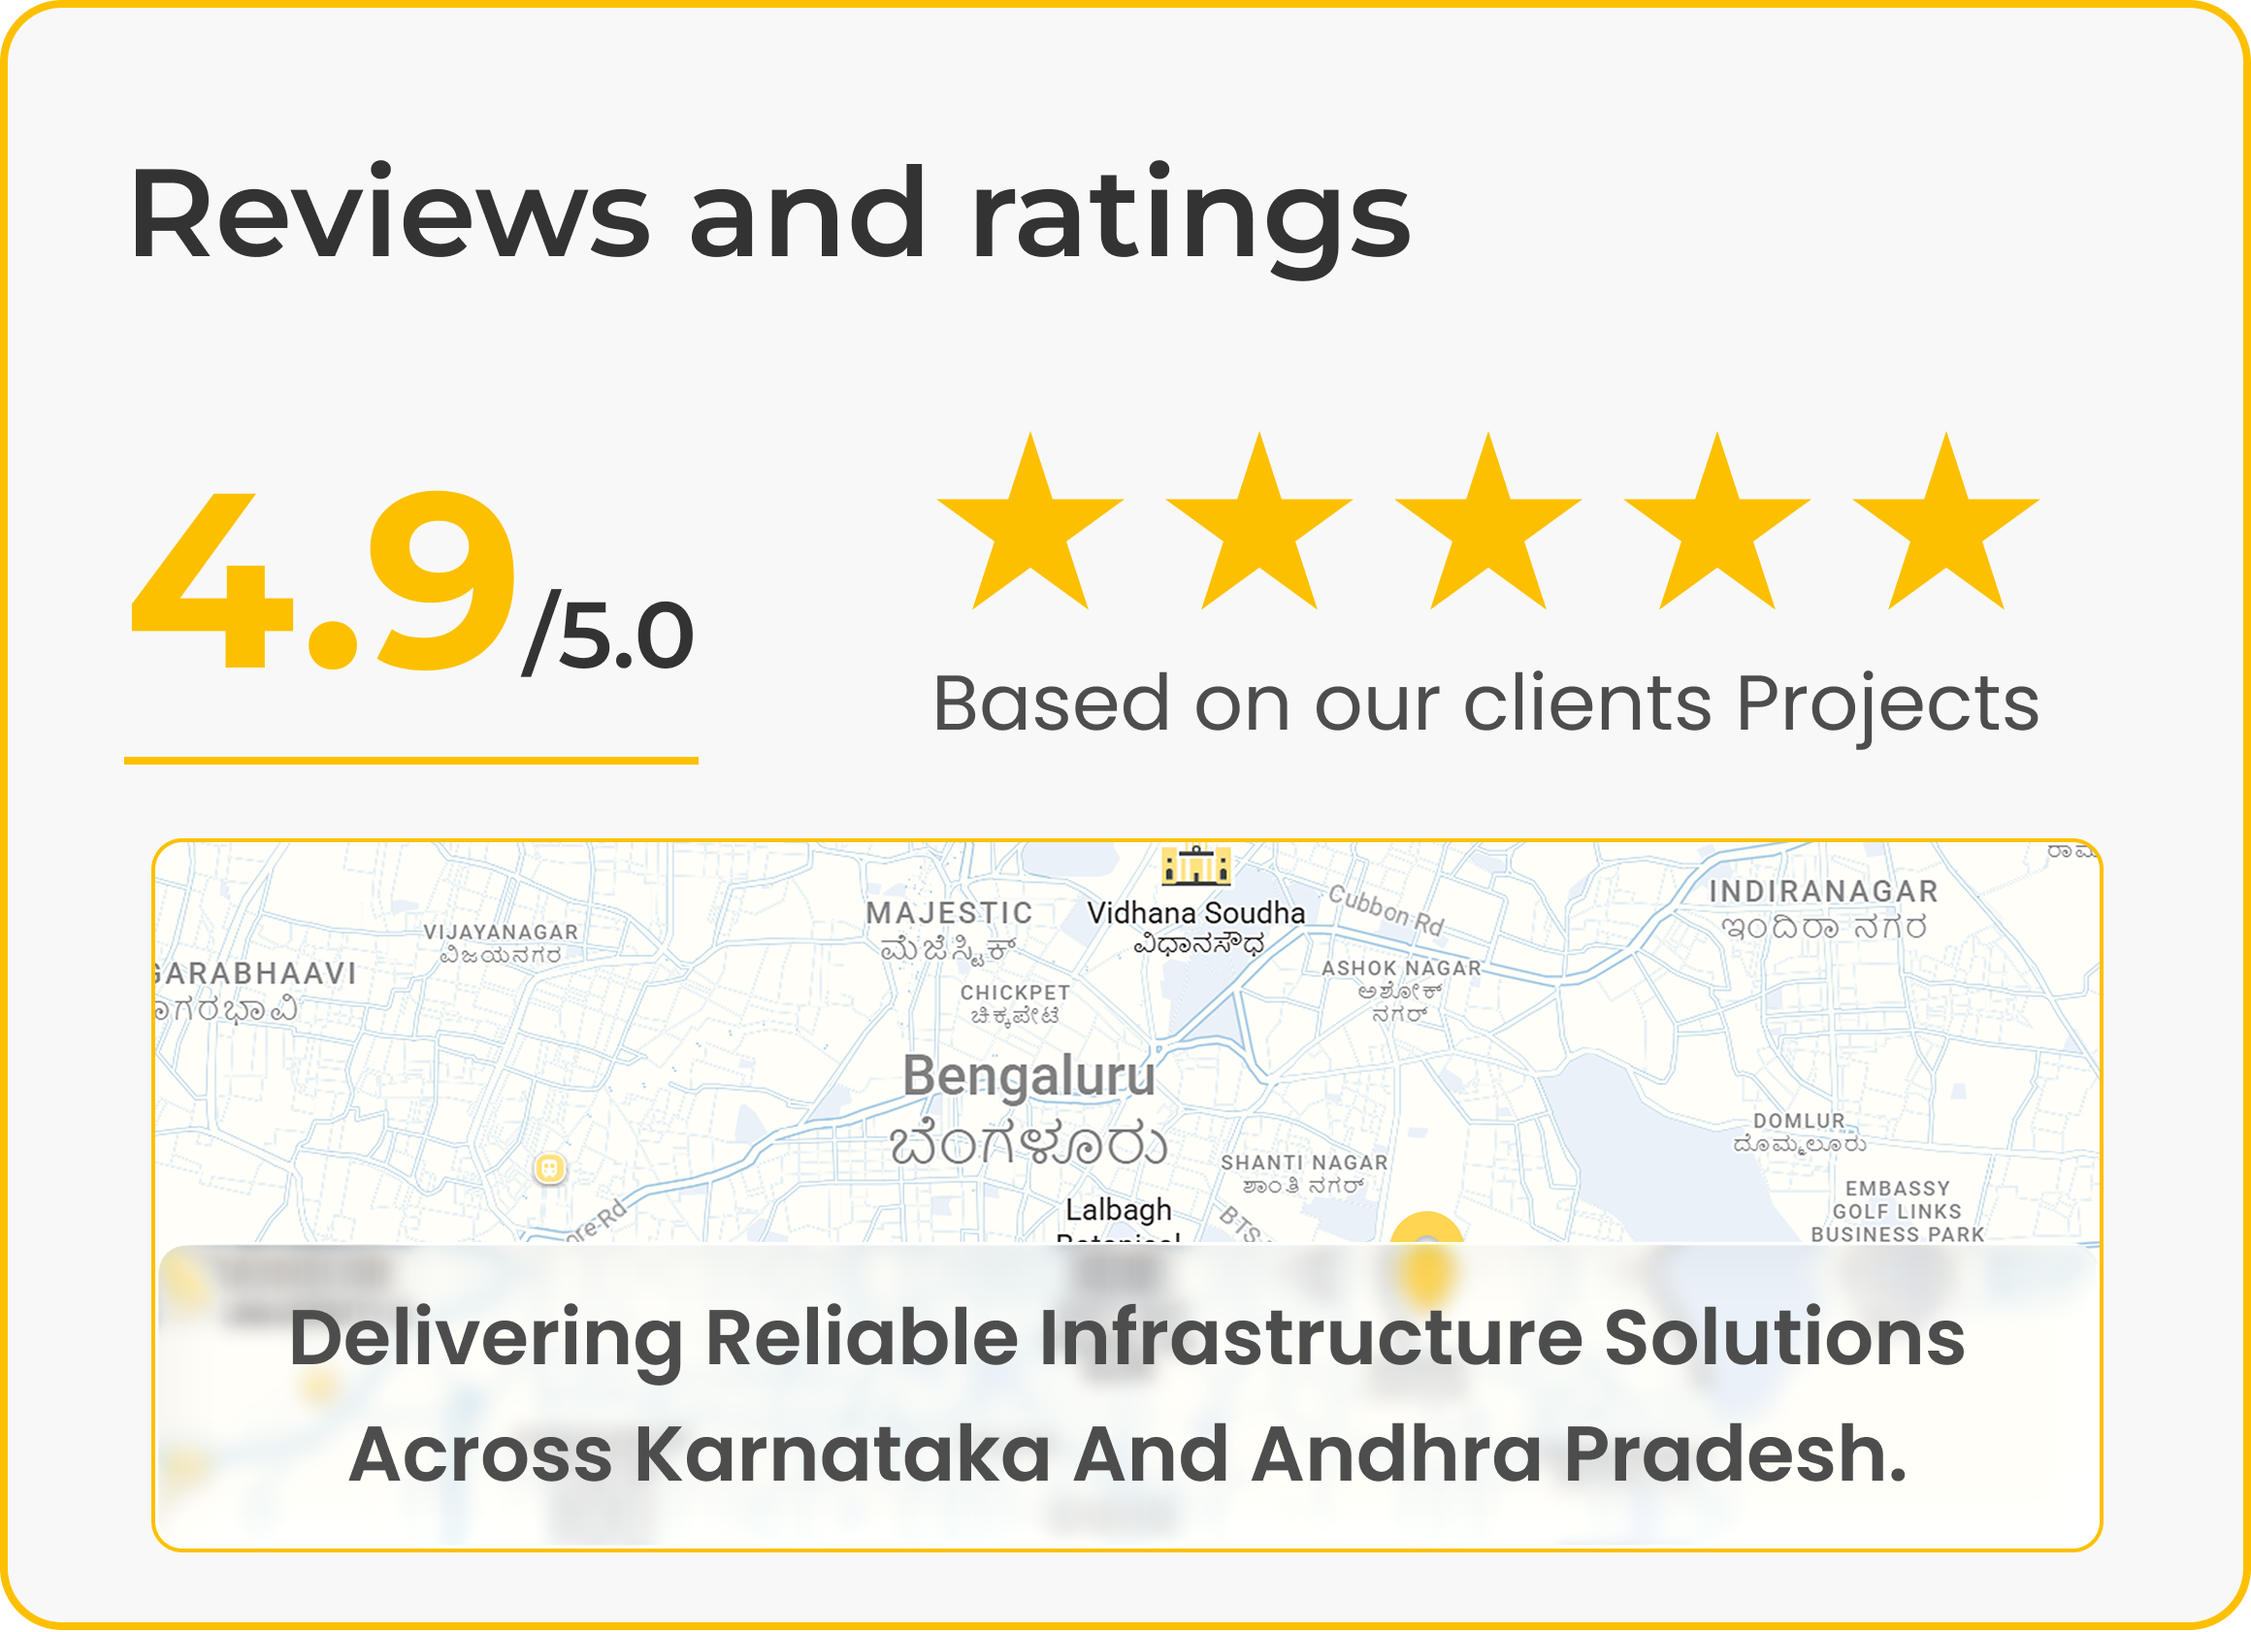
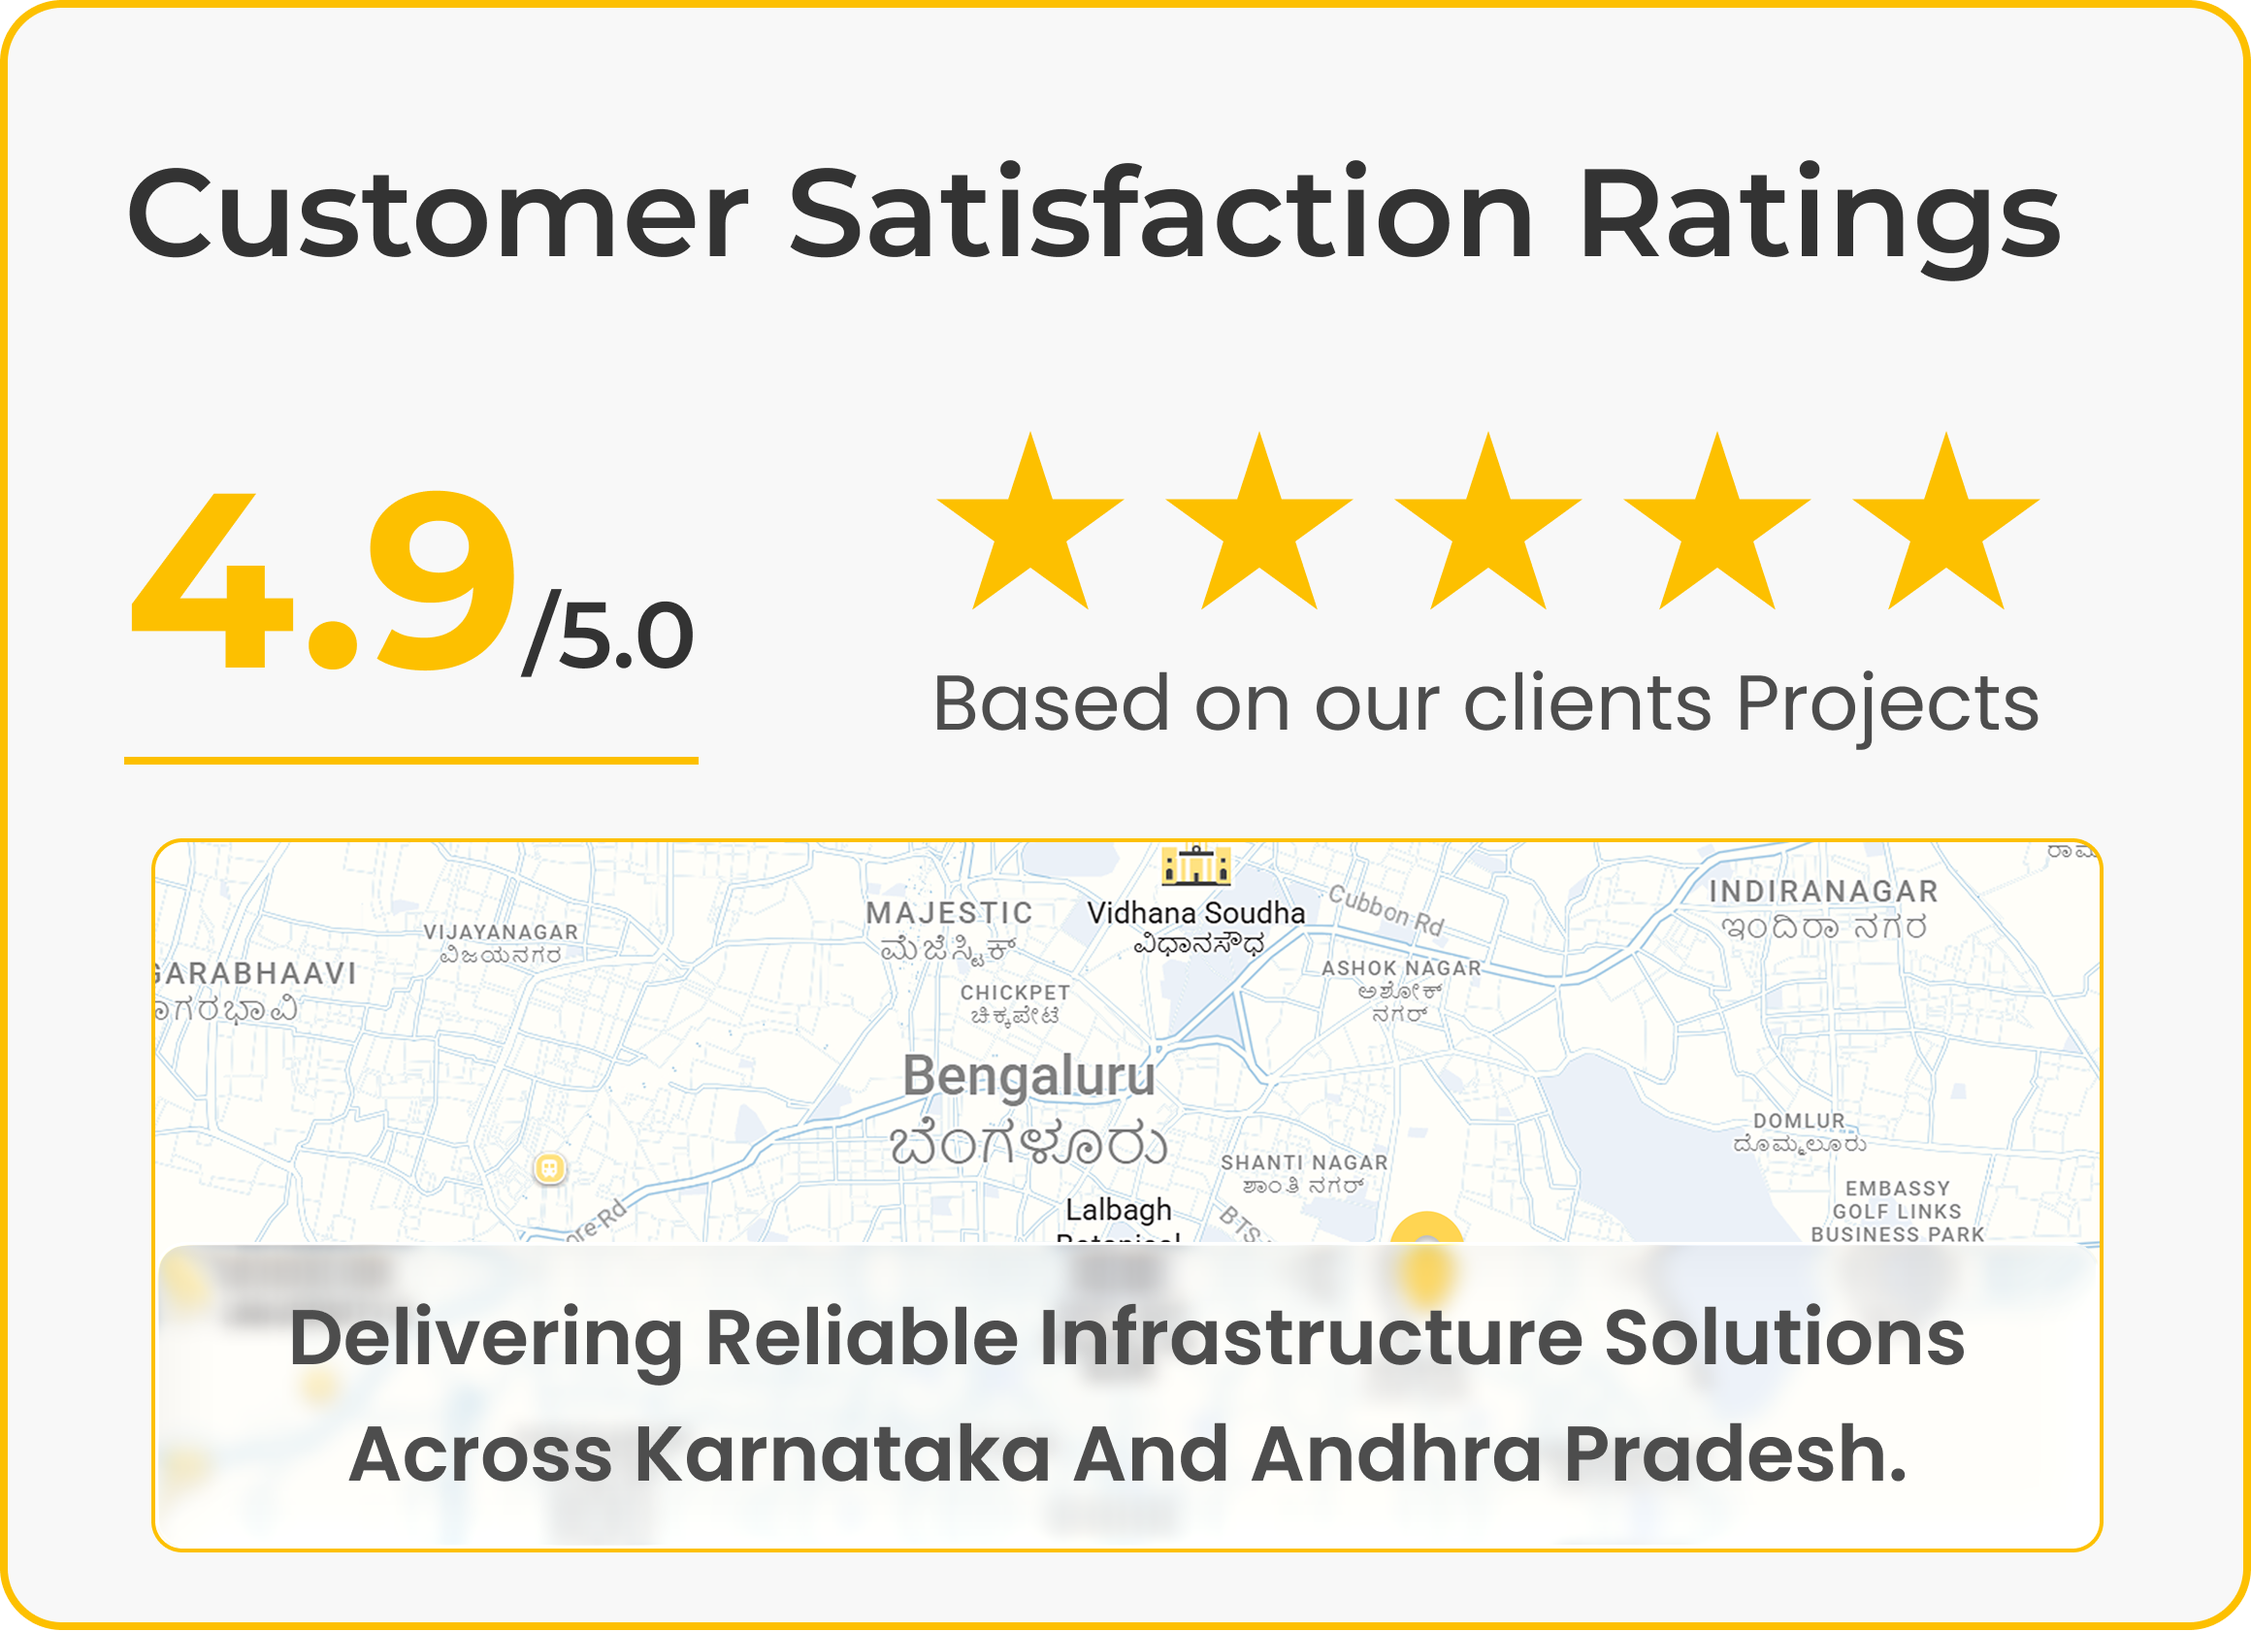
changed the designed of portfolio page

Changed region(s): [[0.0621, 0.0927, 0.931, 0.1855]]

diff --git a/client/src/pages/PortFolio.jsx b/client/src/pages/PortFolio.jsx
@@ -5,6 +5,7 @@ import { Link } from "react-router-dom";
 import "../CSS/Landing.css";
 import { Helmet } from "react-helmet";
 import { useState, useEffect } from "react";
+import star from '../assets/star.png'
 import reviewsIMG from "../assets/potfolioReviewIMG.png";
 import c1 from "../assets/globalCard1.png";
 import c2 from "../assets/globalCard2.png";
@@ -95,22 +96,25 @@ const PortFolio = () => {
   }, []);
   return (
     <>
-    <Helmet>
-            <title>Portfolio | SVB Infra Projects</title>
-            <meta name="description" content="SVB Infra PROJECTS is a 3rd generation family-run business..." />
-            <link rel="canonical" href="https://svbinfraprojects.com/portfolio" />
-          </Helmet>
+      <Helmet>
+        <title>Portfolio | SVB Infra Projects</title>
+        <meta
+          name="description"
+          content="SVB Infra PROJECTS is a 3rd generation family-run business..."
+        />
+        <link rel="canonical" href="https://svbinfraprojects.com/portfolio" />
+      </Helmet>
       <div className="flex flex-col gap-[13vh] py-20 bg-[#F8F8F8]">
         <section className="flex flex-col gap-8 lg:gap-8">
           {/* ===== Animated Heading ===== */}
           <motion.p
-            className="lg:text-[2rem] md:text-[2.5rem] text-[1.2rem] pl-[0.8rem] lg:pl-[130px] text-[#333333] font-semibold underline decoration-[#FDC000] underline-offset-8"
+            className="lg:text-[2rem] md:text-[2.5rem] text-[1.2rem] pl-[0.8rem] lg:pl-[110px] text-[#333333] font-semibold underline decoration-[#FDC000] underline-offset-8"
             initial={{ opacity: 0, y: 30 }}
             whileInView={{ opacity: 1, y: 0 }}
             transition={{ duration: 0.8, ease: "easeOut" }}
             viewport={{ once: true, amount: 0.4 }}
           >
-            Portfolio
+            Our Ongoing projects
           </motion.p>
 
           {/* ===== Content Section ===== */}
@@ -162,18 +166,27 @@ const PortFolio = () => {
 
             {/* Right Side - Image */}
             <motion.div
-              className="mt-12"
+              className=""
               initial={{ opacity: 0, x: 60 }}
               whileInView={{ opacity: 1, x: 0 }}
               transition={{ duration: 1, ease: "easeOut", delay: 0.3 }}
               viewport={{ once: true, amount: 0.4 }}
             >
-              <img src={reviewsIMG} className="lg:w-[37vw] lg:h-[57vh]" />
+              <div className="relative   lg:mx-0  lg:ml-[60px]  overflow-hidden  rounded-xl flex gap-2 lg:gap-[40px] py-4">
+                {[onc1, c3].map((src, index) => (
+                  <img
+                    key={index}
+                    src={src}
+                    alt={`Project ${index + 1}`}
+                    className="w-[30vw] h-[20vh] [@media(min-width:650px)_and_(max-width:1200px)]:h-[60vh]   xl:w-[22vw] 2xl:w-[18vw] lg:w-[18vw] lg:h-[47vh] lg:object-cover rounded-lg "
+                  />
+                ))}
+              </div>
             </motion.div>
           </div>
         </section>
         <section className="flex flex-col gap-12 overflow-hidden">
-          <p className="lg:text-[2rem] text-[1.2rem] pl-[2rem] lg:pl-[130px] text-[#333333] font-semibold underline decoration-[#FDC000] underline-offset-8">
+          <p className="lg:text-[2rem] text-[1.2rem] pl-[2rem] lg:pl-[110px] text-[#333333] font-semibold underline decoration-[#FDC000] underline-offset-8">
             Our Latest Projects
           </p>
 
@@ -209,27 +222,73 @@ const PortFolio = () => {
             ))}
           </div>
         </section>
-        <section className="flex flex-col gap-12 overflow-hidden">
-          <p className="lg:text-[2rem] text-[1.2rem] pl-[2rem] lg:pl-[130px] text-[#333333] font-semibold underline decoration-[#FDC000] underline-offset-8">
-            Our Ongoing Projects
+        <section className="flex flex-col gap-12 overflow-hidden"></section>
+         <p className="lg:text-[2rem] text-[1.2rem] pl-[2rem] lg:pl-[110px] text-[#333333] font-semibold underline decoration-[#FDC000] underline-offset-8">
+            Reviews and ratings
           </p>
+        <div className="flex flex-col lg:flex-row lg:w-fit lg:gap-30 mx-4 lg:mx-30">
+          {/* Left Side - Texts + Button */}
+          <motion.div
+            className="flex flex-col gap-5  md:w-[50%]"
+            initial={{ opacity: 0, x: -60 }}
+            whileInView={{ opacity: 1, x: 0 }}
+            transition={{ duration: 0.9, ease: "easeOut" }}
+            viewport={{ once: true, amount: 0.4 }}
+          >
+            {isMobile ? (
+              <p className="popins-bold leading-8 text-[1.7rem] text-[#333333] lg:leading-20">
+                Industry{" "}
+                <span className="text-[#FDC000]">
+                  Trusted <br className="md:hidden lg:block" /> Feedback
+                </span>
+              </p>
+            ) : (
+              <p className="popins-bold md:text-[2.4rem] lg:text-[4.5rem] text-[#333333] lg:leading-20">
+                Industry{" "}
+                <span className="text-[#FDC000]">
+                  Trusted <br className="md:hidden lg:block" /> Feedback
+                </span>
+              </p>
+            )}
 
-          <div className="relative  w-[92vw] mx-auto lg:mx-0 lg:w-[92vw] lg:ml-[60px] lg:mr-[60px] overflow-hidden  rounded-xl flex gap-2 lg:gap-[40px] py-4">
-            {[onc1, c3].map((src, index) => (
-              <img
-                key={index}
-                src={src}
-                alt={`Project ${index + 1}`}
-                className="w-[30vw] h-[20vh] [@media(min-width:650px)_and_(max-width:1200px)]:h-[60vh]   xl:w-[22vw] 2xl:w-[18vw] lg:w-[18vw] lg:h-[47vh] lg:object-cover rounded-lg "
-              />
-            ))}
-          </div>
-        </section>
+            {isMobile ? (
+              <p className="text-[#333333] font-semibold text-wrap">
+                Real feedback from clients who rely on our expertise for
+                excavation, rock work, soil retention, and dewatering services.
+                Every rating reflects our dedication to quality and reliability.
+              </p>
+            ) : (
+              <p className="text-[#333333] font-semibold text-wrap">
+                Real feedback from clients who rely on our expertise for
+                excavation, rock work, soil retention, and dewatering services.
+                Every rating reflects our dedication to quality and reliability.
+              </p>
+            )}
 
+           <div className="flex gap-4">
+            <img src={star} className="h-[5vh] w-[10vw] md:h-[10vh] md:w-[4.5vw]" />
+            <img src={star} className="h-[5vh] w-[10vw] md:h-[10vh] md:w-[4.5vw]" />
+            <img src={star} className="h-[5vh] w-[10vw] md:h-[10vh] md:w-[4.5vw]" />
+            <img src={star} className="h-[5vh] w-[10vw] md:h-[10vh] md:w-[4.5vw]" />
+            <img src={star} className="h-[5vh] w-[10vw] md:h-[10vh] md:w-[4.5vw]" />
+           </div>
+          </motion.div>
+
+          {/* Right Side - Image */}
+          <motion.div
+            className=""
+            initial={{ opacity: 0, x: 60 }}
+            whileInView={{ opacity: 1, x: 0 }}
+            transition={{ duration: 1, ease: "easeOut", delay: 0.3 }}
+            viewport={{ once: true, amount: 0.4 }}
+          >
+            <img src={reviewsIMG} className="lg:w-[37vw] lg:h-[57vh]" />
+          </motion.div>
+        </div>
         <section className="flex flex-col gap-20">
           {/* ===== HEADING ===== */}
           <motion.p
-            className="text-[#333333] text-[1.2rem] font-semibold lg:text-[2rem] pl-[2rem] lg:pl-40 underline decoration-[#FDC000] underline-offset-8"
+            className="text-[#333333] text-[1.2rem] font-semibold lg:text-[2rem] pl-[2rem] lg:pl-[110px] underline decoration-[#FDC000] underline-offset-8"
             initial={{ opacity: 0, y: 40 }}
             whileInView={{ opacity: 1, y: 0 }}
             transition={{ duration: 0.8, ease: "easeOut" }}
@@ -239,7 +298,7 @@ const PortFolio = () => {
           </motion.p>
 
           {/* ===== INTRO TEXT & COUNTER ===== */}
-          <div className="flex w-fit mx-4 lg:mx-auto xl:mx-30 2xl:mx-auto lg:gap-80">
+          <div className="flex w-fit mx-4 lg:mx-30 lg:gap-80">
             {/* Left text */}
             <motion.div
               className="flex flex-col w-[65%] lg:w-fit gap-3"
@@ -293,7 +352,6 @@ const PortFolio = () => {
             ))}
           </div>
         </section>
-        
       </div>
     </>
   );
